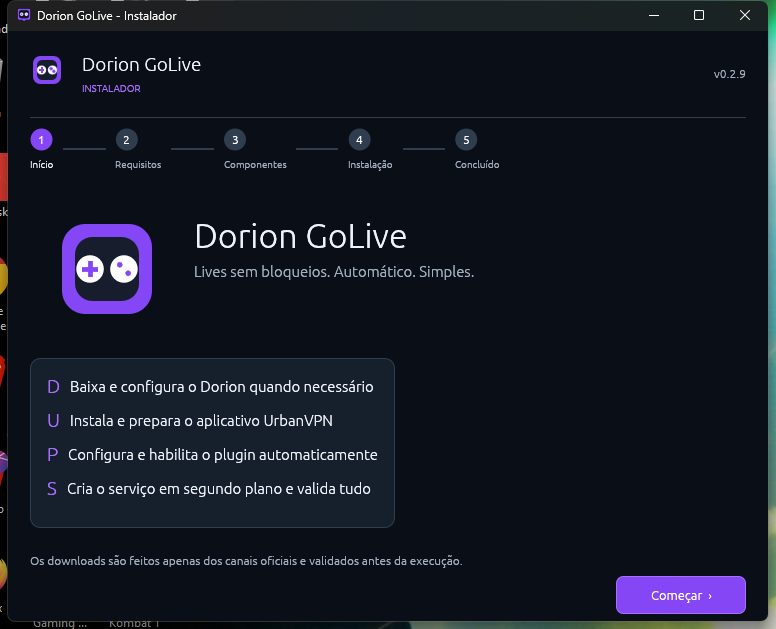
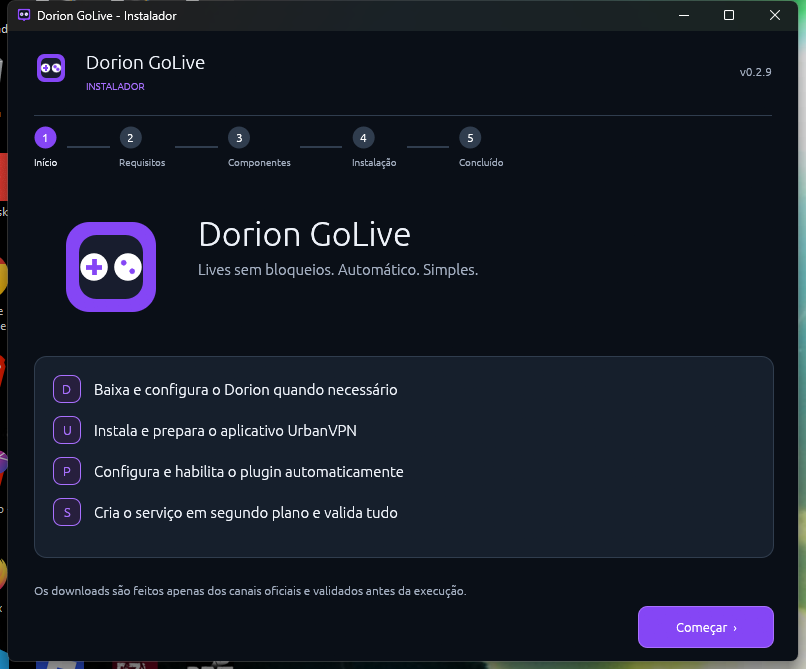
style: refinar interface do instalador

diff --git a/src/instalador_ui.rs b/src/instalador_ui.rs
@@ -52,9 +52,9 @@ struct ResultadoFinal {
 pub fn executar() -> Result<()> {
     let mut viewport = egui::ViewportBuilder::default()
         .with_title("Dorion GoLive - Instalador")
-        .with_inner_size([760.0, 590.0])
-        .with_min_inner_size([760.0, 590.0])
-        .with_max_inner_size([760.0, 590.0])
+        .with_inner_size([790.0, 630.0])
+        .with_min_inner_size([790.0, 630.0])
+        .with_max_inner_size([790.0, 630.0])
         .with_resizable(false);
     if let Some(icone) = icone_janela() {
         viewport = viewport.with_icon(icone);
@@ -81,6 +81,7 @@ struct Assistente {
     atualizacao: Option<Atualizacao>,
     estados: [EstadoComponente; 4],
     detalhes: [String; 4],
+    progressos_componentes: [Option<f32>; 4],
     progresso: f32,
     resultado: Option<ResultadoFinal>,
     erro: Option<String>,
@@ -101,6 +102,7 @@ impl Assistente {
             atualizacao: None,
             estados: [EstadoComponente::Aguardando; 4],
             detalhes: std::array::from_fn(|_| "Aguardando…".into()),
+            progressos_componentes: [None; 4],
             progresso: 0.0,
             resultado: None,
             erro: None,
@@ -128,6 +130,7 @@ impl Assistente {
         self.progresso = 0.02;
         self.estados = [EstadoComponente::Aguardando; 4];
         self.detalhes = std::array::from_fn(|_| "Aguardando…".into());
+        self.progressos_componentes = [None; 4];
 
         let tx = self.tx.clone();
         std::thread::spawn(move || {
@@ -214,6 +217,8 @@ impl Assistente {
                     let indice = indice(atualizacao.componente);
                     self.estados[indice] = atualizacao.estado;
                     self.detalhes[indice] = atualizacao.detalhe.clone();
+                    self.progressos_componentes[indice] =
+                        progresso_individual(&atualizacao, self.progressos_componentes[indice]);
                     self.progresso = self.progresso.max(atualizacao.progresso);
                     self.atualizacao = Some(atualizacao);
                 }
@@ -406,7 +411,7 @@ impl Assistente {
             {
                 self.tela = Tela::Componentes;
             }
-            if !self.verificando && ui.small_button("Verificar novamente").clicked() {
+            if !self.verificando && botao_secundario(ui, "Verificar novamente").clicked() {
                 self.iniciar_verificacao();
             }
         }) {
@@ -497,7 +502,14 @@ impl Assistente {
             .iter()
             .enumerate()
             {
-                linha_progresso(ui, icone, nome, self.estados[i], &self.detalhes[i]);
+                linha_progresso(
+                    ui,
+                    icone,
+                    nome,
+                    self.estados[i],
+                    &self.detalhes[i],
+                    self.progressos_componentes[i],
+                );
             }
         });
         ui.add_space(16.0);
@@ -521,13 +533,13 @@ impl Assistente {
                     );
                     ui.label(RichText::new(erro).size(12.0).color(TEXTO));
                 });
-            ui.horizontal(|ui| {
+            rodape_direita(ui, |ui| {
+                if botao_primario(ui, "Tentar novamente").clicked() {
+                    self.iniciar_instalacao();
+                }
                 if botao_secundario(ui, "Voltar aos componentes").clicked() {
                     self.erro = None;
                     self.tela = Tela::Componentes;
-                }
-                if botao_primario(ui, "Tentar novamente").clicked() {
-                    self.iniciar_instalacao();
                 }
             });
         } else {
@@ -562,20 +574,19 @@ impl Assistente {
             ui.add_space(10.0);
             ui.colored_label(VERDE, mensagem);
         }
-        ui.add_space(12.0);
-        ui.horizontal(|ui| {
+        rodape_direita(ui, |ui| {
+            if botao_secundario(ui, "Concluir").clicked() {
+                ui.ctx().send_viewport_cmd(egui::ViewportCommand::Close);
+            }
+            if botao_secundario(ui, "Ver dicas rápidas").clicked() {
+                self.tela = Tela::Ajuda;
+            }
             if botao_primario(ui, "Iniciar Dorion agora").clicked() {
                 self.mensagem_final = Some(match crate::discord::reiniciar() {
                     Ok(true) => "Dorion iniciado com o plugin configurado.".into(),
                     Ok(false) => "O Dorion não foi encontrado na validação de abertura.".into(),
                     Err(erro) => format!("Não foi possível abrir o Dorion: {erro}"),
                 });
-            }
-            if botao_secundario(ui, "Ver dicas rápidas").clicked() {
-                self.tela = Tela::Ajuda;
-            }
-            if botao_secundario(ui, "Concluir").clicked() {
-                ui.ctx().send_viewport_cmd(egui::ViewportCommand::Close);
             }
         });
     }
@@ -616,7 +627,7 @@ impl Assistente {
 impl eframe::App for Assistente {
     fn ui(&mut self, ui: &mut egui::Ui, _frame: &mut eframe::Frame) {
         let ctx = ui.ctx().clone();
-        ui.set_min_size(ui.available_size());
+        let tamanho_disponivel = ui.available_size();
         self.receber_mensagens();
         ctx.request_repaint_after(Duration::from_millis(100));
         if self.instalando && ctx.input(|i| i.viewport().close_requested()) {
@@ -625,8 +636,12 @@ impl eframe::App for Assistente {
 
         egui::Frame::new()
             .fill(FUNDO)
-            .inner_margin(22)
+            .inner_margin(egui::Margin::symmetric(26, 20))
             .show(ui, |ui| {
+                ui.set_min_size(Vec2::new(
+                    (tamanho_disponivel.x - 52.0).max(0.0),
+                    (tamanho_disponivel.y - 40.0).max(0.0),
+                ));
                 self.desenhar_topo(ui);
                 self.desenhar_passos(ui);
                 match self.tela {
@@ -654,8 +669,12 @@ fn configurar_estilo(ctx: &egui::Context) {
     estilo.visuals.widgets.hovered.bg_fill = Color32::from_rgb(39, 49, 65);
     estilo.visuals.widgets.hovered.bg_stroke = Stroke::new(1.0, ROXO_CLARO);
     estilo.visuals.widgets.active.bg_fill = ROXO;
+    estilo.visuals.widgets.active.bg_stroke = Stroke::new(1.0, ROXO_CLARO);
+    estilo.visuals.widgets.noninteractive.bg_fill = PAINEL;
+    estilo.visuals.widgets.noninteractive.bg_stroke = Stroke::new(1.0, BORDA);
+    estilo.visuals.selection.bg_fill = ROXO;
     estilo.spacing.item_spacing = Vec2::new(10.0, 8.0);
-    estilo.spacing.button_padding = Vec2::new(18.0, 10.0);
+    estilo.spacing.button_padding = Vec2::new(20.0, 11.0);
     ctx.set_style_of(egui::Theme::Dark, estilo);
 }
 
@@ -680,12 +699,16 @@ fn titulo(ui: &mut egui::Ui, principal: &str, subtitulo: &str) {
 }
 
 fn cartao(ui: &mut egui::Ui, conteudo: impl FnOnce(&mut egui::Ui)) {
+    let largura_interna = (ui.available_width() - 36.0).max(0.0);
     egui::Frame::new()
         .fill(CARTAO)
         .stroke(Stroke::new(1.0, BORDA))
-        .corner_radius(CornerRadius::same(10))
-        .inner_margin(16)
-        .show(ui, conteudo);
+        .corner_radius(CornerRadius::same(12))
+        .inner_margin(18)
+        .show(ui, |ui| {
+            ui.set_min_width(largura_interna);
+            conteudo(ui);
+        });
 }
 
 fn desenhar_logo(ui: &mut egui::Ui, tamanho: f32) {
@@ -733,19 +756,17 @@ fn desenhar_logo(ui: &mut egui::Ui, tamanho: f32) {
 
 fn item_beneficio(ui: &mut egui::Ui, icone: &str, texto: &str) {
     ui.horizontal(|ui| {
-        ui.label(RichText::new(icone).size(19.0).color(ROXO_CLARO));
+        desenhar_badge(ui, icone, ROXO_CLARO);
+        ui.add_space(3.0);
         ui.label(RichText::new(texto).size(15.0).color(TEXTO));
     });
-    ui.add_space(4.0);
+    ui.add_space(5.0);
 }
 
 fn linha_requisito(ui: &mut egui::Ui, icone: &str, nome: &str, detalhe: &str, ok: bool) {
     ui.horizontal(|ui| {
-        ui.label(
-            RichText::new(icone)
-                .size(21.0)
-                .color(if ok { TEXTO } else { VERMELHO }),
-        );
+        desenhar_badge(ui, icone, if ok { ROXO_CLARO } else { VERMELHO });
+        ui.add_space(3.0);
         ui.vertical(|ui| {
             ui.label(RichText::new(nome).size(14.0).strong().color(TEXTO));
             ui.label(RichText::new(detalhe).size(11.0).color(SECUNDARIO));
@@ -763,8 +784,8 @@ fn linha_requisito(ui: &mut egui::Ui, icone: &str, nome: &str, detalhe: &str, ok
 
 fn linha_componente(ui: &mut egui::Ui, icone: &str, nome: &str, detalhe: &str, instalado: bool) {
     ui.horizontal(|ui| {
-        ui.label(RichText::new("ON").size(11.0).strong().color(ROXO_CLARO));
-        ui.label(RichText::new(icone).size(22.0).color(ROXO_CLARO));
+        desenhar_badge(ui, icone, ROXO_CLARO);
+        ui.add_space(3.0);
         ui.vertical(|ui| {
             ui.label(RichText::new(nome).size(14.0).strong().color(TEXTO));
             ui.label(RichText::new(detalhe).size(11.0).color(SECUNDARIO));
@@ -790,12 +811,26 @@ fn linha_progresso(
     nome: &str,
     estado: EstadoComponente,
     detalhe: &str,
+    progresso: Option<f32>,
 ) {
     ui.horizontal(|ui| {
-        ui.label(RichText::new(icone).size(22.0).color(ROXO_CLARO));
+        desenhar_badge(ui, icone, ROXO_CLARO);
+        ui.add_space(3.0);
         ui.vertical(|ui| {
             ui.label(RichText::new(nome).size(14.0).strong().color(TEXTO));
             ui.label(RichText::new(detalhe).size(11.0).color(SECUNDARIO));
+            if estado == EstadoComponente::Baixando {
+                let valor = progresso.unwrap_or_else(|| {
+                    let tempo = ui.input(|entrada| entrada.time) as f32;
+                    0.18 + (tempo * 0.55).sin().abs() * 0.66
+                });
+                ui.add(
+                    egui::ProgressBar::new(valor)
+                        .desired_width(330.0)
+                        .desired_height(6.0)
+                        .fill(ROXO),
+                );
+            }
         });
         ui.with_layout(Layout::right_to_left(Align::Center), |ui| match estado {
             EstadoComponente::Concluido => {
@@ -803,6 +838,14 @@ fn linha_progresso(
             }
             EstadoComponente::Aguardando => {
                 ui.label(RichText::new("--").size(13.0).color(SECUNDARIO));
+            }
+            EstadoComponente::Baixando if progresso.is_some() => {
+                ui.label(
+                    RichText::new(format!("{:.0}%", progresso.unwrap_or_default() * 100.0))
+                        .size(12.0)
+                        .strong()
+                        .color(ROXO_CLARO),
+                );
             }
             _ => {
                 ui.spinner();
@@ -826,7 +869,8 @@ fn linha_resultado(ui: &mut egui::Ui, texto: &str, ok: bool) {
 
 fn dica(ui: &mut egui::Ui, icone: &str, nome: &str, detalhe: &str) {
     ui.horizontal(|ui| {
-        ui.label(RichText::new(icone).size(23.0).color(ROXO_CLARO));
+        desenhar_badge(ui, icone, ROXO_CLARO);
+        ui.add_space(3.0);
         ui.vertical(|ui| {
             ui.label(RichText::new(nome).size(14.0).strong().color(TEXTO));
             ui.label(RichText::new(detalhe).size(12.0).color(SECUNDARIO));
@@ -839,8 +883,8 @@ fn botao_widget(texto: &str) -> egui::Button<'_> {
     egui::Button::new(RichText::new(texto).strong().color(Color32::WHITE))
         .fill(ROXO)
         .stroke(Stroke::new(1.0, ROXO_CLARO))
-        .corner_radius(7)
-        .min_size(Vec2::new(130.0, 38.0))
+        .corner_radius(9)
+        .min_size(Vec2::new(136.0, 42.0))
 }
 
 fn botao_primario(ui: &mut egui::Ui, texto: &str) -> egui::Response {
@@ -852,26 +896,47 @@ fn botao_secundario(ui: &mut egui::Ui, texto: &str) -> egui::Response {
         egui::Button::new(RichText::new(texto).strong().color(TEXTO))
             .fill(PAINEL)
             .stroke(Stroke::new(1.0, BORDA))
-            .corner_radius(7)
-            .min_size(Vec2::new(120.0, 38.0)),
+            .corner_radius(9)
+            .min_size(Vec2::new(126.0, 42.0)),
     )
 }
 
 fn rodape_direita(ui: &mut egui::Ui, conteudo: impl FnOnce(&mut egui::Ui)) {
-    ui.with_layout(Layout::right_to_left(Align::Center), conteudo);
+    ui.with_layout(Layout::bottom_up(Align::Min), |ui| {
+        ui.add_space(12.0);
+        ui.with_layout(Layout::right_to_left(Align::Center), conteudo);
+    });
 }
 
 fn rodape_duplo(ui: &mut egui::Ui, voltar: &str, direita: impl FnOnce(&mut egui::Ui)) -> bool {
     let mut clicou_voltar = false;
     ui.with_layout(Layout::bottom_up(Align::Min), |ui| {
+        ui.add_space(12.0);
         ui.horizontal(|ui| {
             if botao_secundario(ui, voltar).clicked() {
                 clicou_voltar = true;
             }
             ui.with_layout(Layout::right_to_left(Align::Center), direita);
         });
+        ui.add_space(8.0);
+        ui.separator();
     });
     clicou_voltar
+}
+
+fn desenhar_badge(ui: &mut egui::Ui, texto: &str, cor: Color32) {
+    let (rect, _) = ui.allocate_exact_size(Vec2::splat(28.0), egui::Sense::hover());
+    ui.painter()
+        .rect_filled(rect, 8.0, Color32::from_rgb(39, 31, 61));
+    ui.painter()
+        .rect_stroke(rect, 8.0, Stroke::new(1.0, cor), egui::StrokeKind::Inside);
+    ui.painter().text(
+        rect.center(),
+        Align2::CENTER_CENTER,
+        texto,
+        FontId::proportional(13.0),
+        cor,
+    );
 }
 
 fn enviar_progresso(
@@ -898,10 +963,53 @@ fn indice(componente: Componente) -> usize {
     }
 }
 
+fn progresso_individual(atualizacao: &Atualizacao, anterior: Option<f32>) -> Option<f32> {
+    match (atualizacao.componente, atualizacao.estado) {
+        (Componente::Dorion, EstadoComponente::Baixando) => {
+            Some(((atualizacao.progresso - 0.10) / 0.16).clamp(0.0, 1.0))
+        }
+        (_, EstadoComponente::Concluido) => Some(1.0),
+        (_, EstadoComponente::Validando | EstadoComponente::Instalando) => {
+            Some(anterior.unwrap_or(1.0))
+        }
+        _ => anterior,
+    }
+}
+
 fn sim_nao(valor: bool) -> &'static str {
     if valor {
         "sim"
     } else {
         "não"
+    }
+}
+
+#[cfg(test)]
+mod tests {
+    use super::*;
+
+    #[test]
+    fn converte_o_download_real_do_dorion_em_progresso_individual() {
+        let atualizacao = Atualizacao {
+            componente: Componente::Dorion,
+            estado: EstadoComponente::Baixando,
+            detalhe: String::new(),
+            progresso: 0.18,
+        };
+
+        let progresso = progresso_individual(&atualizacao, None).expect("progresso conhecido");
+        assert!((progresso - 0.5).abs() < f32::EPSILON * 2.0);
+    }
+
+    #[test]
+    fn conclusao_marca_o_componente_como_completo() {
+        let atualizacao = Atualizacao {
+            componente: Componente::UrbanVpn,
+            estado: EstadoComponente::Concluido,
+            detalhe: String::new(),
+            progresso: 0.74,
+        };
+
+        assert_eq!(progresso_individual(&atualizacao, None), Some(1.0));
     }
 }
